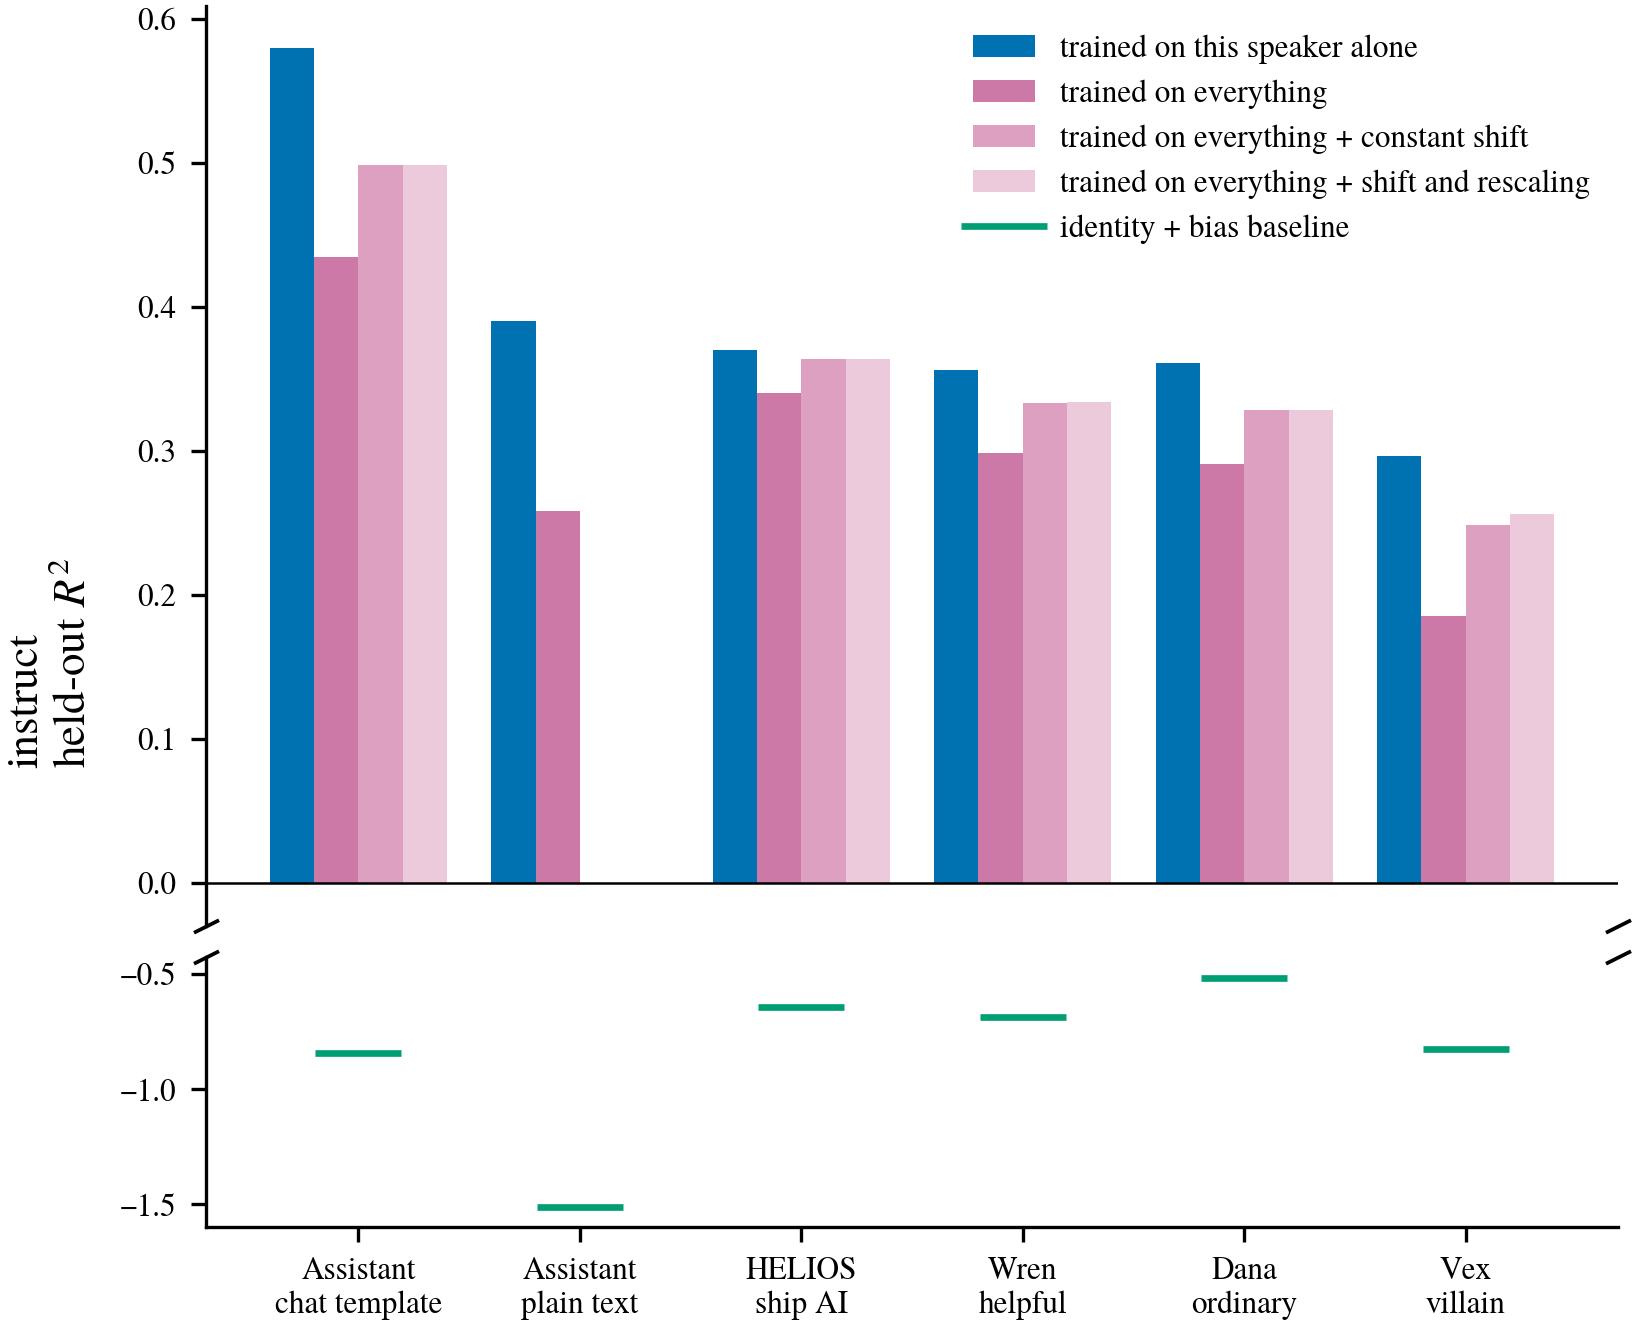
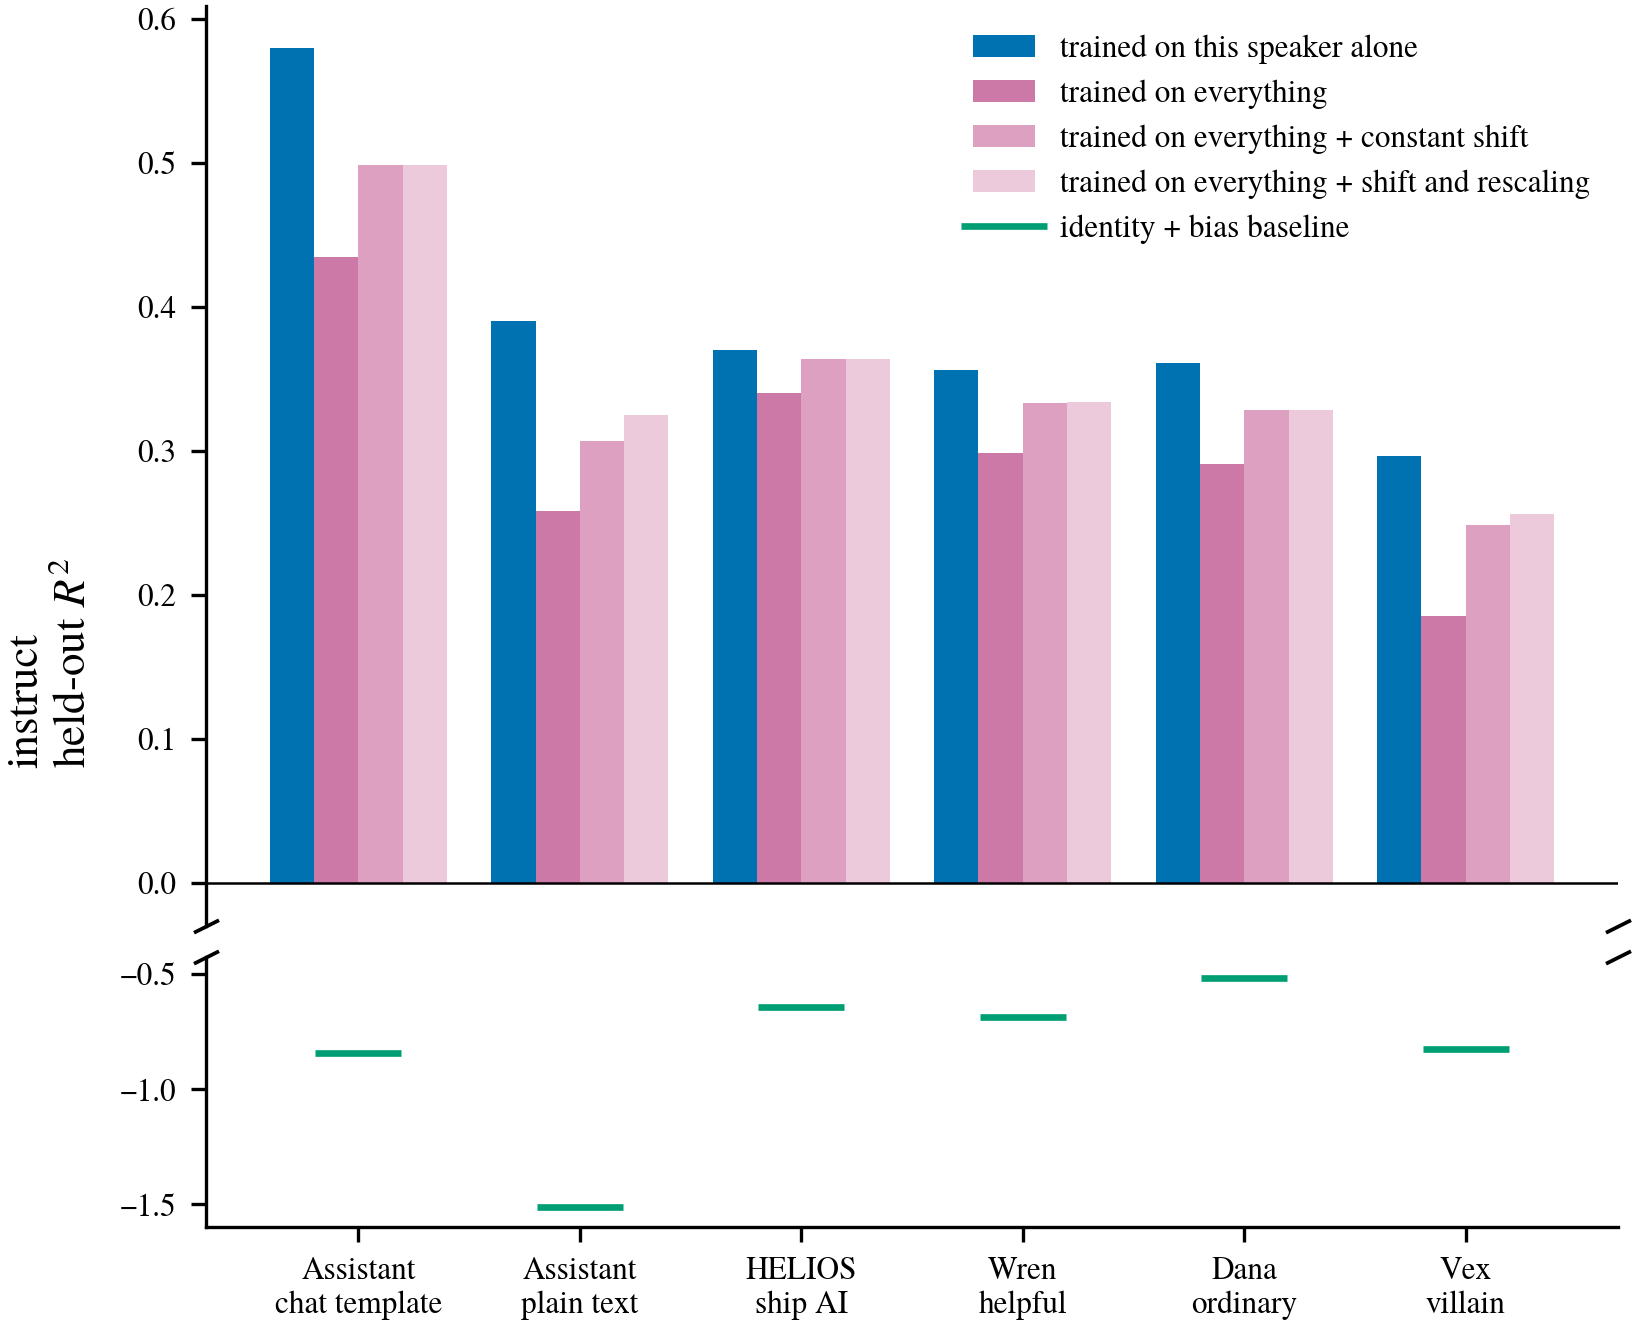
#2054 Plot 2: draw the two correction rungs at the assistant plain-text cell
Both rungs were blank in that speaker group. Their banked values exist only on
the raw cap-contaminated rows, while the group's own-map and pooled bars are
cap-excluded refits, so drawing them together would have put two row sets in one
group and read as a correction that LOWERS the map.

The matching cap-excluded refit now exists (commit 65443a7cbb), so all four arms
carry a cap-excluded table and the group is drawn complete and entirely on kept
rows:

  trained on this speaker alone        +0.390
  trained on everything                +0.258
  + constant shift                     +0.307
  + shift and rescaling                +0.325

The plotter gates PER RUNG rather than on one aggregate flag: a rung can drift
from pool_rungs while the pooled read still reproduces exactly, so each rung's
cap-excluded value is refused unless its own all-rows read reproduces the banked
ladder value. All three pass at ~1e-16.

With the rungs drawn, plain text stops being an outlier: every speaker now shows
the same pattern, corrections closing most of the pooled-to-specialized gap
without reaching the own-map bar.

`_blank_at` is kept as the guard for any arm added later without a cap-excluded
table; no arm currently reaches it.

Generated with [Claude Code](https://claude.ai/code)
via [Happy](https://happy.engineering)

Changed region(s): [[0.3429, 0.3092, 0.4053, 0.6802]]

diff --git a/scripts/issue2054_paper_r2_figs.py b/scripts/issue2054_paper_r2_figs.py
@@ -37,9 +37,14 @@ constant SHIFT and a scalar global RESCALING, both read from the banked
 specialization ladder. They separate a pooled map that genuinely misses this
 speaker from one that merely sits mis-calibrated against it -- across the five
 clean speakers a single constant closes 45-80% of the pooled-to-specialized
-gap (median 62%). The two rungs extend the pooled map INDEPENDENTLY, not
-cumulatively, so "+ global rescaling" is a gain alone rather than a gain on
-top of the shift. Its y-axis is broken: the
+gap (median 62%). The rungs are CUMULATIVE, as in plot 6: the gain rung is
+built as `y_bar + alpha * (z - z_bar)` (issue2054_pool_rungs), i.e. it
+recentres onto the target answer mean AND applies a global gain, so it
+contains the shift. That is why the two bars sit near-identical -- both
+already carry the shift and alpha adds little on top of it. (The
+specialization ladder's "each extend the POOLED map independently" line
+refers to not stacking rotation/rank-k on the gain rung, NOT to the gain
+rung skipping the recentre.) Its y-axis is broken: the
 baseline runs down to -1.51 while every bar sits between 0.09 and 0.58, so one
 linear axis would spend three quarters of its height on the empty space between
 them.
@@ -49,13 +54,18 @@ drawn as a dotted line: the floor a map with no real context-answer pairing
 reaches.
 
 The assistant plain-text instruct bars are plotted at their cap-excluded refits
-rather than their raw values, in BOTH plots and on BOTH of Plot 2's arms. The
-plain-text render carries no end-of-turn token, so 42.5% of that cell's own
+rather than their raw values, in BOTH plots and on ALL FOUR of Plot 2's arms.
+The plain-text render carries no end-of-turn token, so 42.5% of that cell's own
 generations ran to the 4,096-token cap; #2054 banked the own-map exclusion
 refit at 0.390 against the raw 0.209, with a random-removal control at matched
 n moving it the other way (0.195), and the pooled companion refit is 0.258
-against the raw 0.091. A regeneration at the full context window is in flight
-and will replace both substituted values. The substitution is disclosed in the
+against the raw 0.091. The two correction rungs were refit on the same
+cap-excluded rows (2026-08-25, pooled over the banked 56 cells): 0.307 for the
+shift and 0.325 for the shift-and-rescaling, so that speaker group is now drawn
+complete and entirely on kept rows. Every all-rows read of that refit reproduces
+its banked ladder value to machine precision, which is the gate the plotter
+enforces before drawing any of the three. A regeneration at the full context
+window is in flight and will replace all four substituted values. The substitution is disclosed in the
 figures' captions, per Thomas's call (2026-08-25) to draw it as a plain bar
 rather than mark it on the canvas.
 
@@ -168,10 +178,11 @@ def build_series(cells: dict[tuple[str, str, str], dict], loco: dict) -> dict:
             series[model]["ceiling"].append(unit["ceiling_r2"])
             series[model]["pooled"].append(unit["r2"]["pooled"])
             # The two minimal per-cell corrections of the specialization
-            # ladder. Each extends the POOLED map INDEPENDENTLY (see
-            # issue2054_specialization_ladder's docstring): "+gain" is a
-            # scalar gain ALONE, not a gain on top of the bias refit, so the
-            # two are siblings rather than a cumulative ladder.
+            # ladder, CUMULATIVE: `bias` is z + mean(y - z) (shift only),
+            # while `gain` is y_bar + alpha * (z - z_bar) -- a recentre onto
+            # the target answer mean PLUS a global gain, so it already
+            # contains the shift (issue2054_pool_rungs, the same form as
+            # #1902's scale_alpha). Hence the two bars sit near-identical.
             series[model]["bias"].append(unit["r2"]["bias"])
             series[model]["gain"].append(unit["r2"]["gain"])
             series[model]["identity"].append(unit["aux_r2"]["identity_cell"])
@@ -192,25 +203,47 @@ def _substituted_indices() -> list[int]:
     ]
 
 
-def load_cap_pooled() -> dict[tuple[str, str, str], float]:
-    """The pooled cap-excluded read, refused unless its validation gate passed.
+# The refit reads keyed per rung, and the artifact field each one is read from.
+CAP_RUNG_FIELD = {
+    "pooled": "r2_kept_mean",
+    "bias": "r2_kept_bias_mean",
+    "gain": "r2_kept_gain_mean",
+}
 
-    The gate recomputes the ALL-rows pooled read through the same code path and
-    checks it against the banked ladder value. If that does not reproduce, the
-    restricted-row number from the same fit is not trustworthy either, so this
-    raises rather than plotting it.
+
+def load_cap_rungs() -> dict[str, dict[tuple[str, str, str], float]]:
+    """The cap-excluded pooled read and its two correction rungs, one table per
+    rung, each refused unless ITS OWN validation gate passed.
+
+    The gate recomputes every ALL-rows read through the same code path and
+    checks it against the banked ladder value for this cell. If a rung does not
+    reproduce, the restricted-row number from the same fit is not trustworthy
+    either, so this raises rather than plotting it. Gating per rung rather than
+    on one aggregate flag matters: a rung implementation can drift from
+    ``pool_rungs`` while the pooled read still reproduces exactly.
     """
     payload = json.loads(CAP_POOLED_ARTIFACT.read_text())
     result = payload["result"]
     validation = result["validation"]
-    if not validation["passed"]:
-        raise RuntimeError(
-            f"{CAP_POOLED_ARTIFACT}: validation gate did not pass "
-            f"(abs_delta {validation['abs_delta']:.3e} against tol {validation['tol']}) — "
-            "the refit does not reproduce the banked all-rows read, so its "
-            "cap-excluded value is not plottable"
-        )
-    return {("assistant", "bare_text", "instruct"): float(result["r2_kept_mean"])}
+    per_rung = {row["rung"]: row for row in validation["per_rung"]}
+    tables: dict[str, dict[tuple[str, str, str], float]] = {}
+    for rung, field in CAP_RUNG_FIELD.items():
+        row = per_rung.get(rung)
+        if row is None:
+            raise RuntimeError(
+                f"{CAP_POOLED_ARTIFACT}: no validation row for rung {rung!r} — "
+                "the artifact predates the correction-rung refit and cannot "
+                "supply a gated cap-excluded value for it"
+            )
+        if not row["passed"]:
+            raise RuntimeError(
+                f"{CAP_POOLED_ARTIFACT}: validation gate did not pass for rung "
+                f"{rung!r} (abs_delta {row['abs_delta']:.3e} against tol "
+                f"{validation['tol']}) — the refit does not reproduce the banked "
+                "all-rows read, so its cap-excluded value is not plottable"
+            )
+        tables[rung] = {("assistant", "bare_text", "instruct"): float(result[field])}
+    return tables
 
 
 def _apply_cap_excluded(
@@ -227,13 +260,13 @@ def _apply_cap_excluded(
 def _blank_at(values: list[float], indices: list[int]) -> list[float]:
     """NaN out the cap-substituted positions so no bar is drawn there.
 
-    The correction rungs are banked ONLY on the raw (cap-contaminated) rows
-    for the one truncation-affected cell, while that cell's pooled and own-map
-    bars are plotted at their cap-excluded refits. Drawing a raw correction
-    beside a cap-excluded pooled bar would put two different row sets in one
-    speaker group -- the very thing the substitution exists to prevent -- and
-    would read as a correction that LOWERS the map. Blank is the honest render
-    until a matching cap-excluded correction refit is computed.
+    No arm currently reaches this: all four of Plot 2's arms carry a
+    cap-excluded table. It is kept as the guard for any arm added later without
+    one. Drawing a raw value beside a cap-excluded bar would put two different
+    row sets in one speaker group -- the very thing the substitution exists to
+    prevent -- and for a correction rung would read as a correction that LOWERS
+    the map. Blank is the honest render until a matching cap-excluded refit
+    exists.
     """
     out = list(values)
     for idx in indices:
@@ -329,17 +362,28 @@ def figure_universal(series: dict, out_dir: Path) -> None:
     width = 0.20
     model = "instruct"
     substituted = _substituted_indices()
-    cap_pooled = load_cap_pooled()
+    cap_rungs = load_cap_rungs()
 
     # The pooled arm and its two minimal corrections share one hue (one colour
     # = one meaning: the map trained on everything), lightening as a correction
-    # is added. A `None` table marks an arm with no cap-excluded refit: it is
-    # left blank at the substituted position rather than drawn on other rows.
+    # is added. Every arm now carries a cap-excluded table, so the truncation-
+    # affected speaker group is drawn complete and entirely on kept rows; a
+    # `None` table would blank an arm there rather than draw it on other rows.
     arms = [
         ("ceiling", "trained on this speaker alone", CAP_EXCLUDED, paper_color("instruct")),
-        ("pooled", "trained on everything", cap_pooled, paper_color("oracle_answer")),
-        ("bias", "trained on everything + constant shift", None, "#DDA0C0"),
-        ("gain", "trained on everything + global rescaling", None, "#EDC9DC"),
+        ("pooled", "trained on everything", cap_rungs["pooled"], paper_color("oracle_answer")),
+        (
+            "bias",
+            "trained on everything + constant shift",
+            cap_rungs["bias"],
+            "#DDA0C0",
+        ),
+        (
+            "gain",
+            "trained on everything + shift and rescaling",
+            cap_rungs["gain"],
+            "#EDC9DC",
+        ),
     ]
 
     fig, (ax_bar, ax_id) = plt.subplots(
